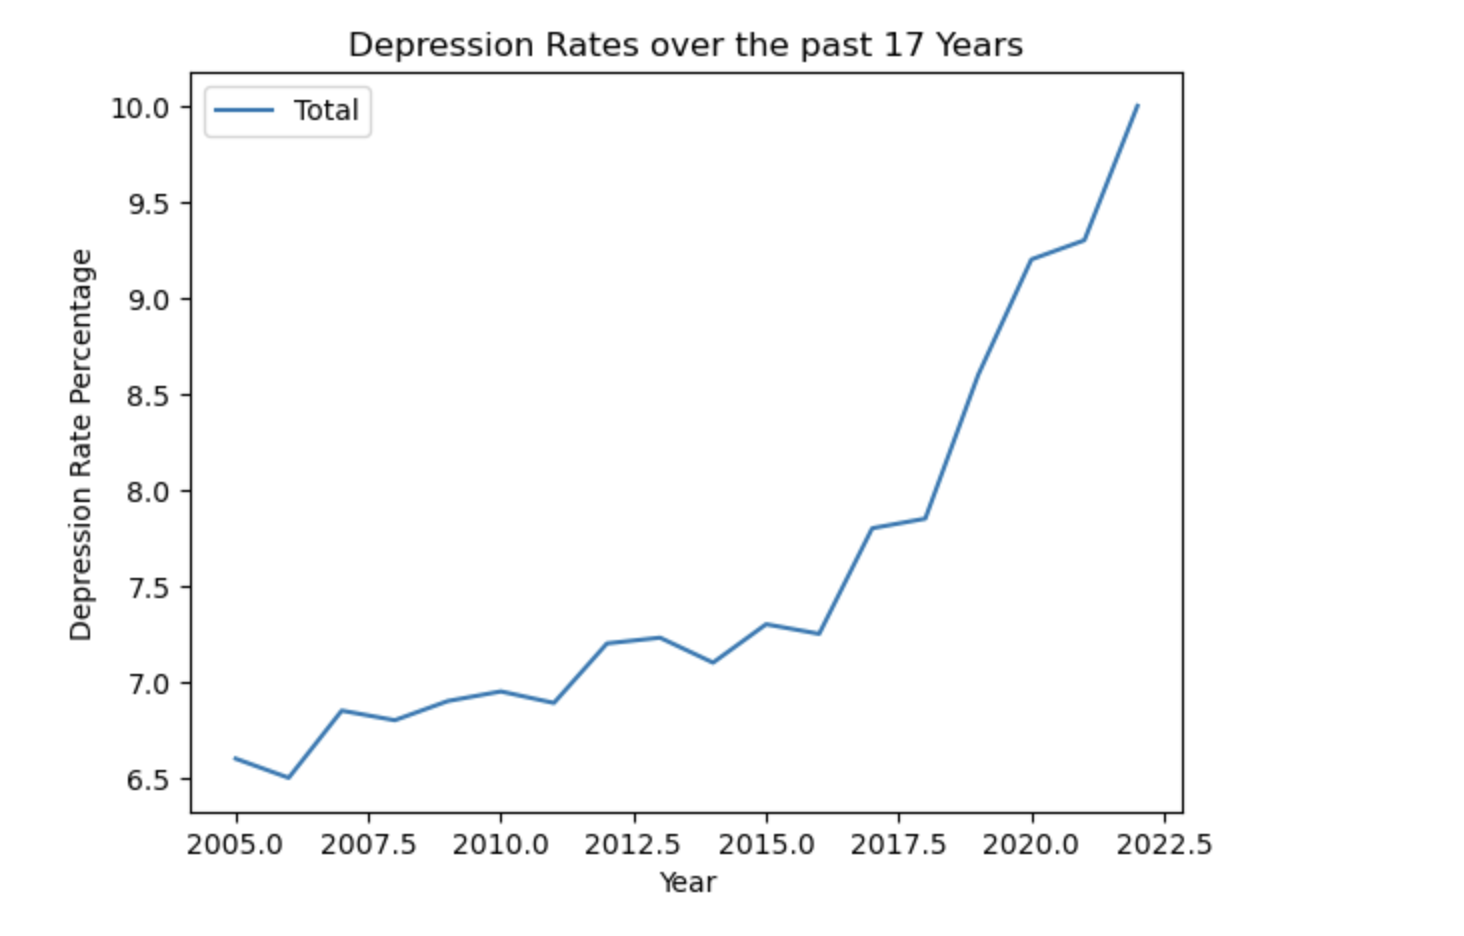
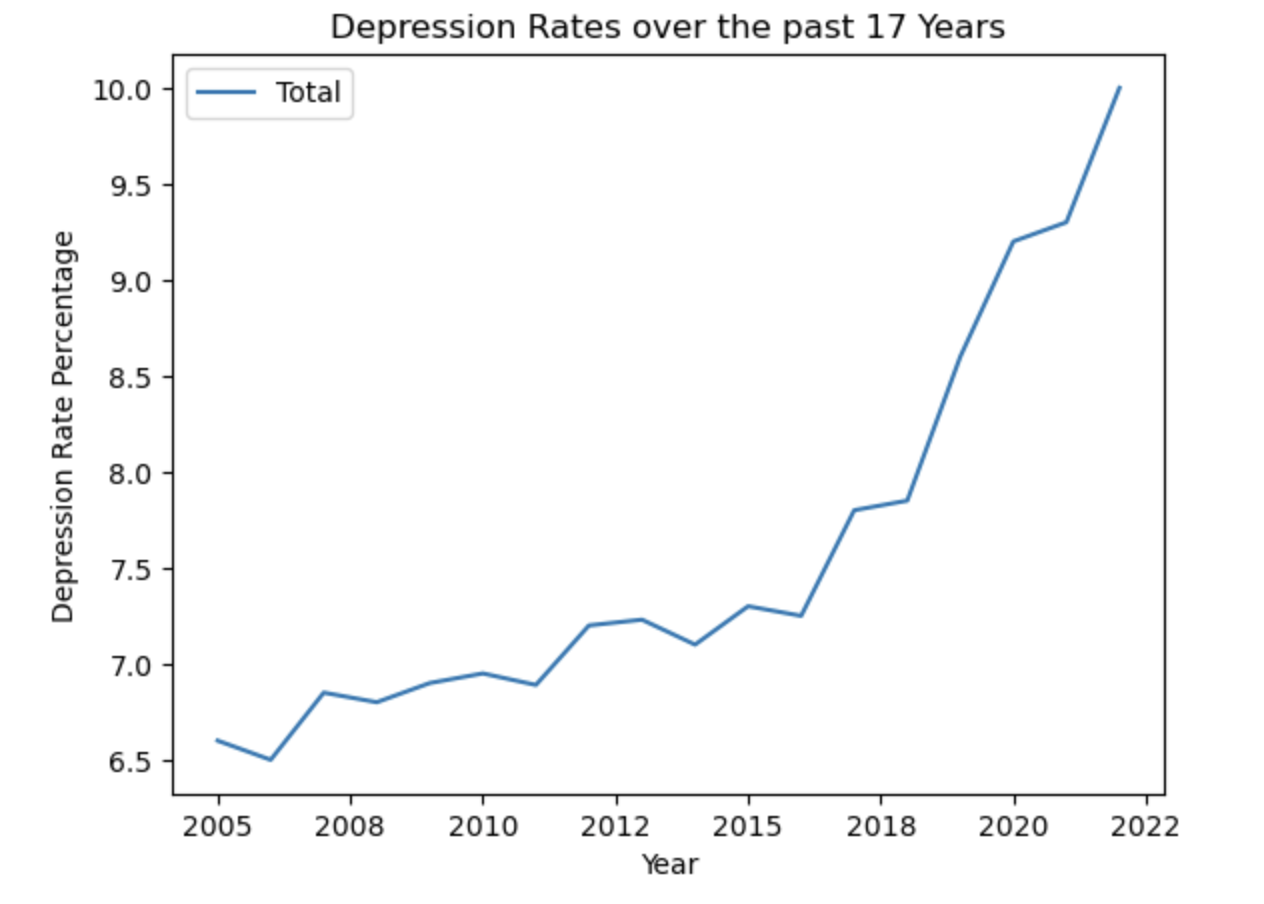
Polished up
removed teams, added machine learning models images

diff --git a/product.html b/product.html
@@ -16,9 +16,6 @@
                   <div class="collapse navbar-collapse" id="mynavbar">
                     <ul class="navbar-nav mr-auto">
                       <li class="nav-item">
-                        <a class="nav-link" href="javascript:void(0)">Team</a>
-                      </li>
-                      <li class="nav-item">
                         <a class="nav-link"style ="background-color:lightslategrey; border-radius: 10px;" href="javascript:void(0)">Product</a>
                       </li>
                       <li class="nav-item">
@@ -96,6 +93,19 @@
                       <br>
                       <br>
                       <a href = "https://github.com/GithubArnavSharma/HandOff/blob/6ca034247985157b1a08606565d95d4400f72160/app.py#L4"><img id = "handsOffGit" src = "https://cdn4.iconfinder.com/data/icons/iconsimple-logotypes/512/github-512.png" style = "width:40px;" ></a>
+                    </p>
+                  </section>
+                  <section>
+                    <p class = "subsection">
+                      <h1 class = "subsection"></h1><br><h1><strong>Machine-Learning Model</strong></h1>
+                      <img src = "images/depression_graph.png" class="img-fluid shadow-1-strong rounded-5 mb-4 expandableImg" alt = "Analysis">
+                      <img src="https://cdn.discordapp.com/attachments/1071331992307777577/1086874062472622230/Screenshot_2023-03-18_at_9.44.58_PM.png", class="img-fluid shadow-1-strong rounded-5 mb-4 expandableImg" alt = "Analysis">
+                      <img src ="https://cdn.discordapp.com/attachments/1071331992307777577/1086875443711463514/Screenshot_2023-03-18_at_9.54.42_PM.png", class="img-fluid shadow-1-strong rounded-5 mb-4 expandableImg" alt = "Analysis">
+                      <img src ="https://cdn.discordapp.com/attachments/1071331992307777577/1086874154831187978/Screenshot_2023-03-18_at_9.45.21_PM.png", class="img-fluid shadow-1-strong rounded-5 mb-4 expandableImg" alt = "Analysis">
+                      
+                      <p>Here is a model created using the data of the past 17 years of depression rates in the United States, using the panda's folder. By looking at this data showing seasonality, I can also tell I would need to differentiate this graph around 2 times in order for the data to become stationary or not moving. This makes it easier for the time series model to predict the data.</p>
+
+                      <p>Here is the autocorrelation model. In Machine Learning, an ARIMA model other known as an Autoregressive Integrated Moving Average model is used to predict the future of a dataset based on previous data. The purpose of an Auto Correlation model is to tell the users how related the data is with respect to one another. This can be fulfilled by using the AD Fuller Test. An AD-Fuller test utilizes the average of the data along with lag models to find a relationship between the data points.</p>
                     </p>
                   </section>
                 </div>

diff --git a/main.html b/main.html
@@ -19,9 +19,6 @@
                   <div class="collapse navbar-collapse" id="mynavbar">
                     <ul class="navbar-nav mr-auto">
                       <li class="nav-item">
-                        <a class="nav-link" href="javascript:void(0)">Team</a>
-                      </li>
-                      <li class="nav-item">
                         <a id = "product"class="nav-link" href="javascript:void(0)">Product</a>
                       </li>
                       <li class="nav-item">
@@ -187,7 +184,7 @@
     
                 <p class = "subsection"><br><strong>Our own analysis</strong></p>
     
-               <img src = "https://cdn.discordapp.com/attachments/1071331992307777577/1086874028674928640/Screenshot_2023-03-18_at_9.44.49_PM.png" class="img-fluid shadow-1-strong rounded-5 mb-4 expandableImg" alt = "Analysis">
+               <img src = "images/depression_graph.png" class="img-fluid shadow-1-strong rounded-5 mb-4 expandableImg" alt = "Analysis">
       
                 <p class="note note-light">
                   <strong>Note:</strong> This is our own analysis of data, which ...

diff --git a/bubblesgame.html b/bubblesgame.html
@@ -17,9 +17,6 @@
                   <div class="collapse navbar-collapse" id="mynavbar">
                     <ul class="navbar-nav mr-auto">
                       <li class="nav-item">
-                        <a class="nav-link" href="javascript:void(0)">Team</a>
-                      </li>
-                      <li class="nav-item">
                         <a class="nav-link" href="product.html">Product</a>
                       </li>
                       <li class="nav-item">

diff --git a/questions.html b/questions.html
@@ -17,9 +17,6 @@
               <div class="collapse navbar-collapse" id="mynavbar">
                 <ul class="navbar-nav mr-auto">
                   <li class="nav-item">
-                    <a class="nav-link" href="javascript:void(0)">Team</a>
-                  </li>
-                  <li class="nav-item">
                     <a class="nav-link" href="product.html">Product</a>
                   </li>
                   <li class="nav-item">
